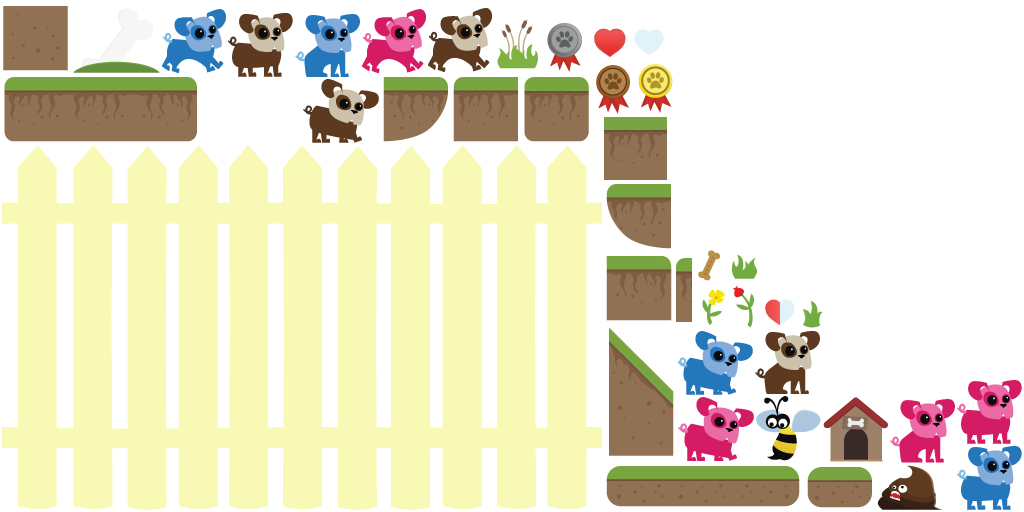
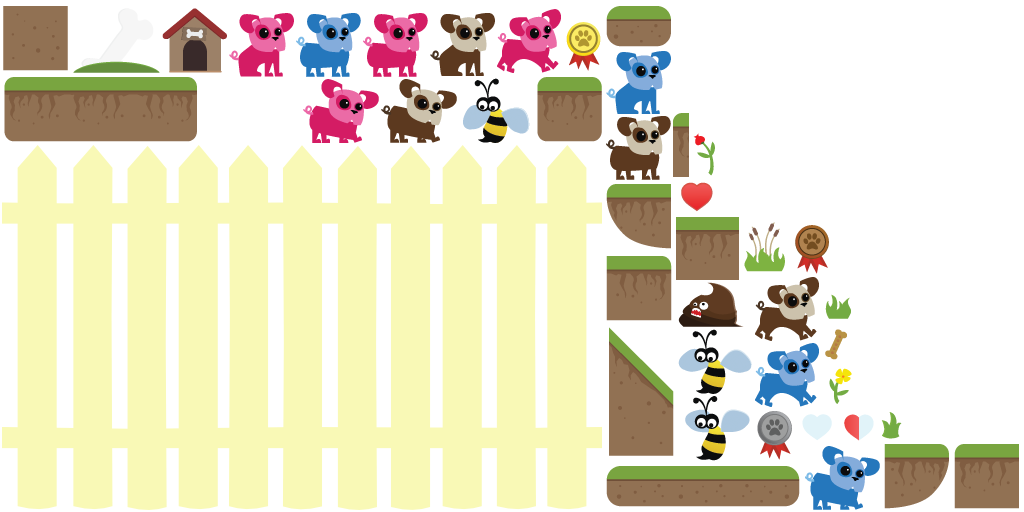
Final Project - Additional Animation
Changed: Level.java, Bee.java, Assets.java

Changed region(s): [[0.1562, 0.0, 1.0, 1.0]]

diff --git a/core/src/com/luckenbaughgdx/game/objects/Bee.java b/core/src/com/luckenbaughgdx/game/objects/Bee.java
@@ -2,6 +2,7 @@ package com.luckenbaughgdx.game.objects;
 
 import com.badlogic.gdx.graphics.g2d.SpriteBatch;
 import com.badlogic.gdx.graphics.g2d.TextureRegion;
+import com.badlogic.gdx.math.MathUtils;
 import com.luckenbaughgdx.game.Assets;
 
 public class Bee extends AbstractGameObject
@@ -18,7 +19,10 @@ public class Bee extends AbstractGameObject
     {
         dimension.set(1.0f, 1.0f);
 
-        regBee = Assets.instance.bee.bee;
+        
+        setAnimation(Assets.instance.bee.animBee);
+        stateTime = MathUtils.random(0.0f,1.0f);
+        //regBee = Assets.instance.bee.bee;
 
         //Set bounding box for collection detection
         bounds.set(0, 0, dimension.x, dimension.y);
@@ -32,7 +36,7 @@ public class Bee extends AbstractGameObject
         if (collected)
             return;
         TextureRegion reg = null;
-        reg = regBee;
+        reg = animation.getKeyFrame(stateTime,true);
         batch.draw(reg.getTexture(), position.x, position.y , origin.x, origin.y, dimension.x, dimension.y, scale.x, scale.y, rotation, reg.getRegionX(), reg.getRegionY(), reg.getRegionWidth(),
                 reg.getRegionHeight(), false, false);
     }

diff --git a/core/src/com/luckenbaughgdx/game/Assets.java b/core/src/com/luckenbaughgdx/game/Assets.java
@@ -206,11 +206,19 @@ public class Assets implements Disposable, AssetErrorListener
 	 */
 	public class AssetBee
 	{
-		public final AtlasRegion bee;
+		//public final AtlasRegion bee;
+		public final Animation animBee;
 		
 		public AssetBee (TextureAtlas atlas)
 		{
-			bee = atlas.findRegion("bee");
+			//bee = atlas.findRegion("bee");
+			
+			//Animation Bee
+			Array<AtlasRegion> regions = atlas.findRegions("bee");
+			//AtlasRegion region = regions.first();
+			//for (int i = 0;i<5;i++)
+			    //regions.insert(0,region);
+			animBee = new Animation(1.0f/ 10.0f,regions,Animation.PlayMode.LOOP_PINGPONG);
 		}
 	}
 	/*

diff --git a/core/src/com/luckenbaughgdx/game/Level.java b/core/src/com/luckenbaughgdx/game/Level.java
@@ -159,7 +159,7 @@ public class Level
                 else if (BLOCK_TYPE.ITEM_BEE.sameColor(currentPixel))
                 {
                     obj = new Bee();
-                    offsetHeight = -6.5f;
+                    offsetHeight = -5.5f;
                     obj.position.set(pixelX, baseHeight * obj.dimension.y + offsetHeight);
                     bees.add((Bee) obj);
                 }
